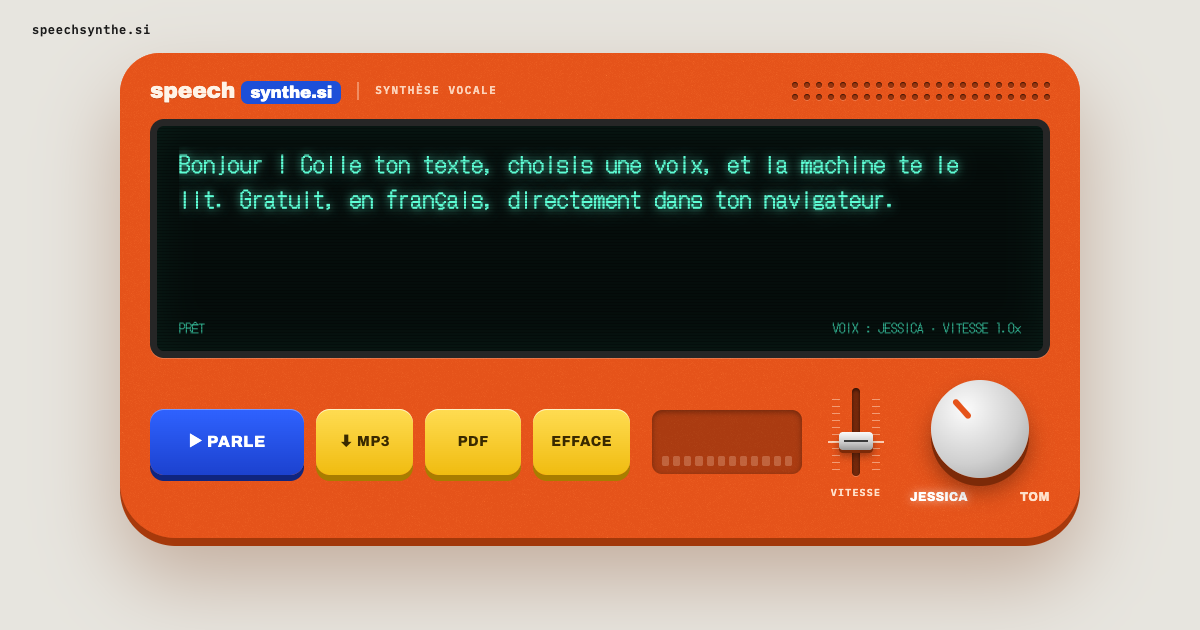
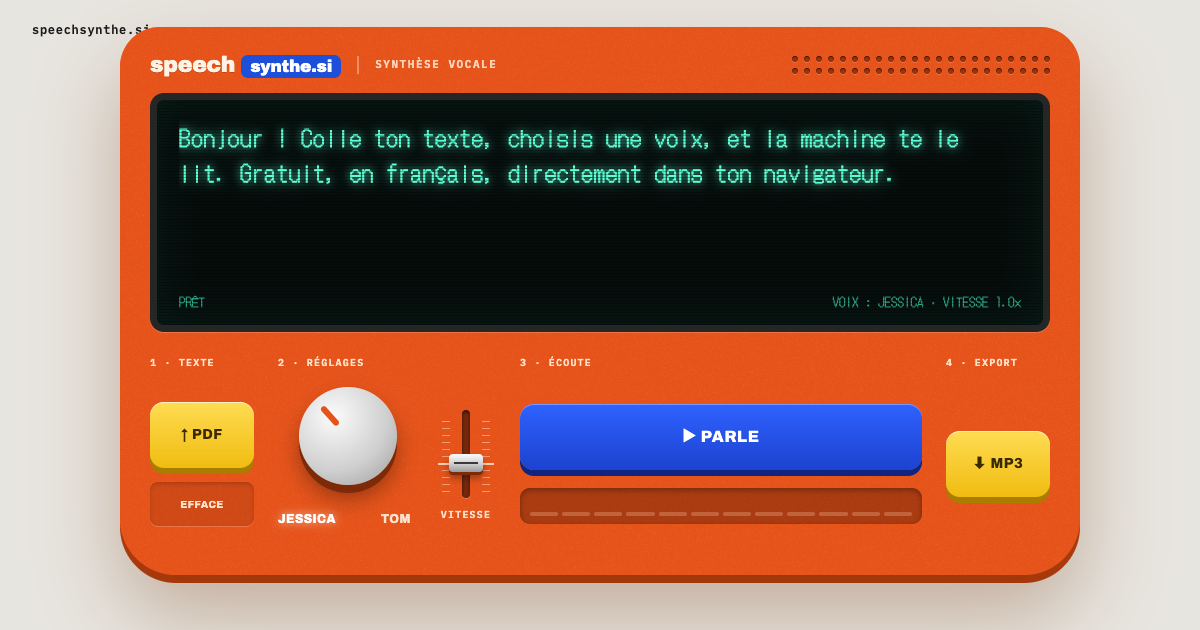
feat: ordonner les commandes selon leur utilisation

diff --git a/index.html b/index.html
@@ -58,7 +58,7 @@
       "name": "Quelles voix françaises sont disponibles ?",
       "acceptedAnswer": {
         "@type": "Answer",
-        "text": "Il y en a deux : Jessica, une voix de femme, et Tom, une voix d'homme. Tu changes de voix avec le bouton rotatif à droite de la machine. Jessica est la voix choisie par défaut."
+        "text": "Il y en a deux : Jessica, une voix de femme, et Tom, une voix d'homme. Tu changes de voix avec le bouton rotatif dans la zone RÉGLAGES. Jessica est la voix choisie par défaut."
       }
     },
     {
@@ -134,28 +134,42 @@
         </div>
 
         <div class="deck">
-          <div class="keys">
-            <button type="button" class="key b" id="key-speak" aria-label="Parle">▶ PARLE</button>
+          <div class="control-group source-controls" role="group" aria-labelledby="source-label">
+            <span class="control-title" id="source-label">1 · TEXTE</span>
+            <div class="source-keys">
+              <button type="button" class="key y" id="key-pdf" aria-label="Importer un PDF">↑ PDF</button>
+              <button type="button" class="key recessed" id="key-clear" aria-label="Effacer l'écran">EFFACE</button>
+              <input type="file" id="pdf-input" accept="application/pdf" hidden>
+            </div>
+          </div>
+          <div class="control-group settings-controls" role="group" aria-labelledby="settings-label">
+            <span class="control-title" id="settings-label">2 · RÉGLAGES</span>
+            <div class="settings-row">
+              <div class="knobwrap" id="voice" role="radiogroup" aria-label="Voix">
+                <div class="knob" aria-hidden="true"><i></i></div>
+                <div class="knoblabels">
+                  <button type="button" role="radio" id="voice-jessica" aria-checked="true" tabindex="0">JESSICA</button>
+                  <button type="button" role="radio" id="voice-tom" aria-checked="false" tabindex="-1">TOM</button>
+                </div>
+              </div>
+              <div class="fader">
+                <div class="fader-slot">
+                  <input type="range" id="speed" min="0.7" max="1.5" step="0.1" value="1" aria-valuetext="1,0×">
+                </div>
+                <label for="speed" class="silk-label">VITESSE</label>
+              </div>
+            </div>
+          </div>
+          <div class="control-group playback-controls" role="group" aria-labelledby="playback-label">
+            <span class="control-title" id="playback-label">3 · ÉCOUTE</span>
+            <div class="playback-row">
+              <button type="button" class="key b" id="key-speak" aria-label="Parle">▶ PARLE</button>
+              <div class="meter" id="meter" aria-hidden="true"><i></i><i></i><i></i><i></i><i></i><i></i><i></i><i></i><i></i><i></i><i></i><i></i></div>
+            </div>
+          </div>
+          <div class="control-group export-controls" role="group" aria-labelledby="export-label">
+            <span class="control-title" id="export-label">4 · EXPORT</span>
             <button type="button" class="key y" id="key-mp3" aria-label="Télécharger le MP3">⬇ MP3</button>
-            <button type="button" class="key y" id="key-pdf" aria-label="Importer un PDF">PDF</button>
-            <button type="button" class="key y" id="key-clear" aria-label="Effacer l'écran">EFFACE</button>
-            <input type="file" id="pdf-input" accept="application/pdf" hidden>
-          </div>
-
-          <div class="meter" id="meter" aria-hidden="true"><i></i><i></i><i></i><i></i><i></i><i></i><i></i><i></i><i></i><i></i><i></i><i></i></div>
-
-          <div class="knobwrap" id="voice" role="radiogroup" aria-label="Voix">
-            <div class="knob" aria-hidden="true"><i></i></div>
-            <div class="knoblabels">
-              <button type="button" role="radio" id="voice-jessica" aria-checked="true" tabindex="0">JESSICA</button>
-              <button type="button" role="radio" id="voice-tom" aria-checked="false" tabindex="-1">TOM</button>
-            </div>
-          </div>
-          <div class="fader">
-            <div class="fader-slot">
-              <input type="range" id="speed" min="0.7" max="1.5" step="0.1" value="1" aria-valuetext="1,0×">
-            </div>
-            <label for="speed" class="silk-label">VITESSE</label>
           </div>
         </div>
       </div>
@@ -182,7 +196,7 @@
     </details>
     <details>
       <summary>Quelles voix françaises sont disponibles ?</summary>
-      <p class="answer">Il y en a deux : Jessica, une voix de femme, et Tom, une voix d'homme. Tu changes de voix avec le bouton rotatif à droite de la machine. Jessica est la voix choisie par défaut.</p>
+      <p class="answer">Il y en a deux : Jessica, une voix de femme, et Tom, une voix d'homme. Tu changes de voix avec le bouton rotatif dans la zone RÉGLAGES. Jessica est la voix choisie par défaut.</p>
     </details>
     <details>
       <summary>Comment changer la vitesse de lecture ?</summary>

diff --git a/styles/machine.css b/styles/machine.css
@@ -120,9 +120,15 @@ body { margin: 0; background: var(--room); color: #1b1b1b; font-family: Archivo,
 .status { display: flex; justify-content: space-between; gap: 16px; margin-top: 10px; font: 13px var(--dot); color: var(--phosphor-dim); }
 
 /* ================= Pupitre ================= */
-.deck { display: grid; grid-template-columns: 1fr 150px 64px 140px; gap: 22px; margin-top: 22px; align-items: center; }
-
-.keys { display: grid; grid-template-columns: 1.6fr 1fr 1fr 1fr; gap: 12px; }
+.deck { display: grid; grid-template-columns: 104px 218px minmax(220px, 1fr) 104px; gap: 24px; margin-top: 24px; align-items: stretch; }
+.control-group { display: flex; flex-direction: column; min-width: 0; gap: 18px; }
+.control-title { font: 600 10px var(--mono); color: var(--silk); letter-spacing: .12em; white-space: nowrap; }
+.source-keys { display: flex; flex-direction: column; gap: 14px; margin: auto 0; }
+.settings-row { display: flex; align-items: center; gap: 20px; flex: 1; }
+.playback-row { display: flex; flex-direction: column; gap: 18px; margin: auto 0; }
+.playback-row .key { width: 100%; }
+.playback-row .meter { height: 36px; }
+.export-controls .key { margin: auto 0; width: 100%; }
 .key {
   appearance: none; border: 0; margin: 0; cursor: pointer;
   min-height: 66px; border-radius: 14px; padding: 8px 6px 10px;
@@ -132,6 +138,7 @@ body { margin: 0; background: var(--room); color: #1b1b1b; font-family: Archivo,
 }
 .key.y { background: linear-gradient(180deg, #ffdc52, #f0bc10); color: #3a2a00; box-shadow: 0 6px 0 #a87d00, inset 0 1px 0 rgba(255,255,255,.65); }
 .key.b { background: linear-gradient(180deg, #2f62ff, #1c42cf); color: #fff; box-shadow: 0 6px 0 #10257f, inset 0 1px 0 rgba(255,255,255,.35); font-size: 16px; }
+.key.recessed { min-height: 44px; border-radius: 8px; padding: 8px; font-size: 10px; color: var(--silk); background: rgba(100,29,0,.18); box-shadow: inset 0 2px 4px rgba(70,18,0,.25), 0 1px 0 rgba(255,255,255,.2); }
 .key.y:active, .key.y.down { transform: translateY(4px); box-shadow: 0 2px 0 #a87d00, inset 0 1px 0 rgba(255,255,255,.65); }
 .key.b:active, .key.b.down { transform: translateY(4px); box-shadow: 0 2px 0 #10257f, inset 0 1px 0 rgba(255,255,255,.35); }
 .key:focus-visible, .knoblabels button:focus-visible, #speed:focus-visible { outline: 3px solid #fff3e6; outline-offset: 3px; }
@@ -206,17 +213,12 @@ body { margin: 0; background: var(--room); color: #1b1b1b; font-family: Archivo,
 .key:disabled { opacity: .65; cursor: wait; }
 #screen:focus-visible { outline: 2px solid var(--phosphor-dim); outline-offset: 5px; border-radius: 2px; }
 .status { flex-wrap: wrap; }
-.keys { grid-area: keys; }
-.meter { grid-area: meter; }
-.fader { grid-area: speed; }
-.knobwrap { grid-area: voice; }
-.deck { grid-template-areas: "keys meter speed voice"; }
 
 @media (max-width: 1000px) {
   .grille { grid-template-columns: repeat(11, 5px); gap: 5px; }
   .grille i { width: 5px; height: 5px; }
-  .deck { grid-template-columns: minmax(0, 1fr) 100px 56px 140px; gap: 14px; }
-  .keys { gap: 8px; }
+  .deck { grid-template-columns: 90px 202px minmax(150px, 1fr) 90px; gap: 18px; }
+  .settings-row { gap: 8px; }
   .key { font-size: 12px; }
   .key.b { font-size: 14px; }
 }
@@ -235,9 +237,17 @@ body { margin: 0; background: var(--room); color: #1b1b1b; font-family: Archivo,
   #screen, .reader { height: 190px; font-size: 19px; }
   .status { gap: 6px; font-size: 11px; }
   #status-right { width: 100%; }
-  .deck { grid-template-columns: minmax(0, 1fr) 56px 120px; grid-template-areas: "keys keys keys" "meter speed voice"; gap: 20px 12px; }
-  .keys { grid-template-columns: 1fr 1fr; gap: 12px; }
+  .deck { grid-template-columns: minmax(0, 1fr); gap: 22px; }
+  .control-group { gap: 12px; }
+  .source-keys { flex-direction: row; gap: 12px; }
+  .source-keys .key { flex: 1; }
+  .settings-row { justify-content: space-around; gap: 24px; padding: 0 18px; }
+  .playback-row { flex-direction: row; align-items: center; gap: 14px; }
+  .playback-row .key { width: auto; flex: 1.5; }
+  .playback-row .meter { height: 56px; flex: 1; min-width: 0; }
+  .export-controls .key { min-height: 50px; }
   .key { font-size: 14px; min-height: 56px; }
+  .key.recessed { min-height: 56px; }
   .key.b { font-size: 16px; }
   .meter { padding: 8px 6px; gap: 2px; }
   .knob { width: 80px; height: 80px; }

diff --git a/docs/superpowers/specs/2026-10-24-la-machine-design.md b/docs/superpowers/specs/2026-10-24-la-machine-design.md
@@ -58,7 +58,8 @@ Inspirée du **Speak & Spell** (Texas Instruments, 1978, premier objet parlant g
 - **Ligne d'état** au bas de l'écran (même police, couleur plus sombre) : état (`PRÊT`, `CHARGEMENT VOIX 42 %`, `▶ LECTURE`, `✓ MP3 PRÊT`) et voix active.
 - **Touches** :
   - **▶ PARLE** : grande, bleue. Lance ou arrête la lecture.
-  - **⬇ MP3**, **PDF**, **EFFACE** : jaunes, avec un effet d'enfoncement au clic.
+  - **⬇ MP3**, **PDF** : jaunes, avec un effet d'enfoncement au clic. **EFFACE** : touche secondaire encastrée.
+- **Ordre des commandes (ajusté à la demande de Jonas le 2026-10-25)** : quatre zones numérotées suivent l'utilisation : **1 · TEXTE** (import PDF, puis effacement secondaire), **2 · RÉGLAGES** (voix et vitesse), **3 · ÉCOUTE** (PARLE/STOP et vumètre), **4 · EXPORT** (MP3). EFFACE est une touche encastrée discrète. Le même ordre s'applique au clavier.
 - **Vumètre** : barres qui réagissent au **vrai niveau audio** pendant la lecture.
 - **Bouton rotatif** argenté : deux positions, **JESSICA** / **TOM**, rotation animée.
 - **Curseur de vitesse** façon matériel (fader) sur le boîtier, de 0,7× à 1,5×, cran central à 1,0×. La valeur s'affiche sur la ligne d'état (`VITESSE 1.2×`).
@@ -105,10 +106,10 @@ Inspirée du **Speak & Spell** (Texas Instruments, 1978, premier objet parlant g
 - Le texte reste local. Aucun appel réseau sauf le téléchargement des modèles de voix et des bibliothèques.
 
 ### 4.5 Téléphone
-La machine se réorganise en format portrait :
-- écran en haut ;
-- touches en grille 2×2 ;
-- vumètre et bouton rotatif sur une ligne en dessous.
+La machine se réorganise en format portrait : écran en haut, puis les quatre zones
+dans l'ordre **texte → réglages → écoute → export**. PDF et EFFACE partagent une
+ligne, puis viennent le bouton de voix avec la vitesse, PARLE avec le vumètre, et
+le téléchargement MP3.
 
 Le grain et les ombres restent. Les touches font au moins 44 px.
 
@@ -163,6 +164,12 @@ lecteur du site ; elle ne modifie pas un MP3 déjà téléchargé.
   partie dont l'audio n'a pas encore été généré. Préserver le traitement local.
 
 À réaliser après la mise en ligne et la validation de la V1.
+
+### Import PDF par glisser-déposer — demande de Jonas du 2026-10-25
+
+- [ ] Permettre de glisser-déposer un PDF sur la machine ou son écran pour importer son texte, en complément de la touche PDF.
+- Réutiliser l'extraction locale et les messages existants pour les PDF sans texte, illisibles ou protégés.
+- Signaler visuellement la zone de dépôt pendant le survol et empêcher le navigateur d'ouvrir le PDF à la place du site.
 
 ### Autres pistes
 - Pages par usage, une par recherche (PDF, TikTok, répondeur, révisions), avec la machine intégrée.

diff --git a/docs/superpowers/plans/2026-10-24-la-machine.md b/docs/superpowers/plans/2026-10-24-la-machine.md
@@ -25,6 +25,7 @@
   - la sérigraphie de la machine ;
   - les libellés des commandes ;
   - la ligne d'état de l'écran.
+  - les repères d'usage validés le 2026-10-25 : `1 · TEXTE`, `2 · RÉGLAGES`, `3 · ÉCOUTE`, `4 · EXPORT`.
 - Voix : **Jessica** = `fr_FR-upmc-medium` (locuteur 0, **voix par défaut**) ; **Tom** = `fr_FR-tom-medium`. Aucune autre voix.
 - Vitesse : de **0,7× à 1,5×**, par pas de 0,1, cran central à **1,0×**. Elle est appliquée à la synthèse : `length_scale = 1 / vitesse`.
 - Libellés de la ligne d'état (copie exacte) : `PRÊT`, `CHARGEMENT VOIX 42 %`, `SYNTHÈSE…`, `▶ LECTURE`, `✓ MP3 PRÊT`, `ÉCRAN VIDE`, `PDF SANS TEXTE`, `ERREUR RÉSEAU · RÉESSAIE`. À droite : `VOIX : JESSICA · VITESSE 1.0×`.
@@ -488,7 +489,7 @@ test("390×844 : pas de défilement horizontal, commandes ≥ 44 px", ...);
   // document.documentElement.scrollWidth <= 390 ; chaque bouton, radio et le fader mesurent au moins 44×44
   // disposition : écran, puis touches en grille 2×2, puis vumètre + bouton rotatif + fader
 test("tout au clavier", ...);
-  // Tab dans l'ordre : #screen → #key-speak → #key-mp3 → #key-pdf → #key-clear → radiogroup → #speed
+  // Tab dans l'ordre (ajusté le 2026-10-25) : #screen → #key-pdf → #key-clear → radiogroup → #speed → #key-speak → #key-mp3
   // Flèche droite sur le radiogroup → Tom sélectionné, ligne d'état "TOM"
   // Entrée sur #key-speak lance la lecture
 test("prefers-reduced-motion : grain figé, curseur fixe", ...);

diff --git a/README.md b/README.md
@@ -1,8 +1,8 @@
 # speech-synthesis
 
-- **Statut** : V1 implémentée localement, prête pour relecture et mise en ligne
+- **Statut** : actif — V1 de l'outil « La Machine »
 - **But** : outil de synthèse vocale française dans le navigateur — voix Jessica ou Tom, vitesse réglable, écoute en direct, téléchargement MP3 et extraction de PDF.
-- **Site** : https://speechsynthe.si (GitHub Pages ; publication de la V1 en attente)
+- **Site** : https://speechsynthe.si (GitHub Pages, branche `main`)
 - **Dépendances** : ES modules JavaScript, Web Audio, vits-web, onnxruntime-web, Paper shaders, lamejs, PDF.js, tests Node et Puppeteer.
 - **Données** : texte, PDF et audio sont traités dans le navigateur ; seuls les modèles et bibliothèques sont téléchargés.
 - **Code vocal** : [`src/vendor/vits-web/PATCHES.md`](src/vendor/vits-web/PATCHES.md). Jessica (UPMC) est sous CC BY-SA 4.0 ; Tom est sous AGPLv3. Le dépôt reste public.
